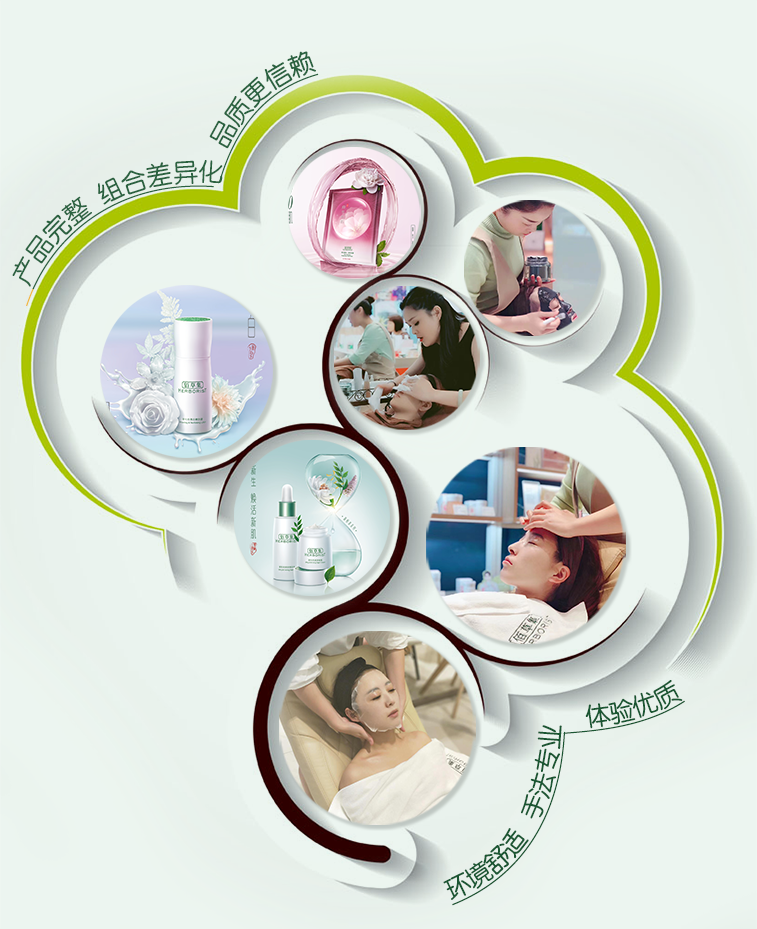
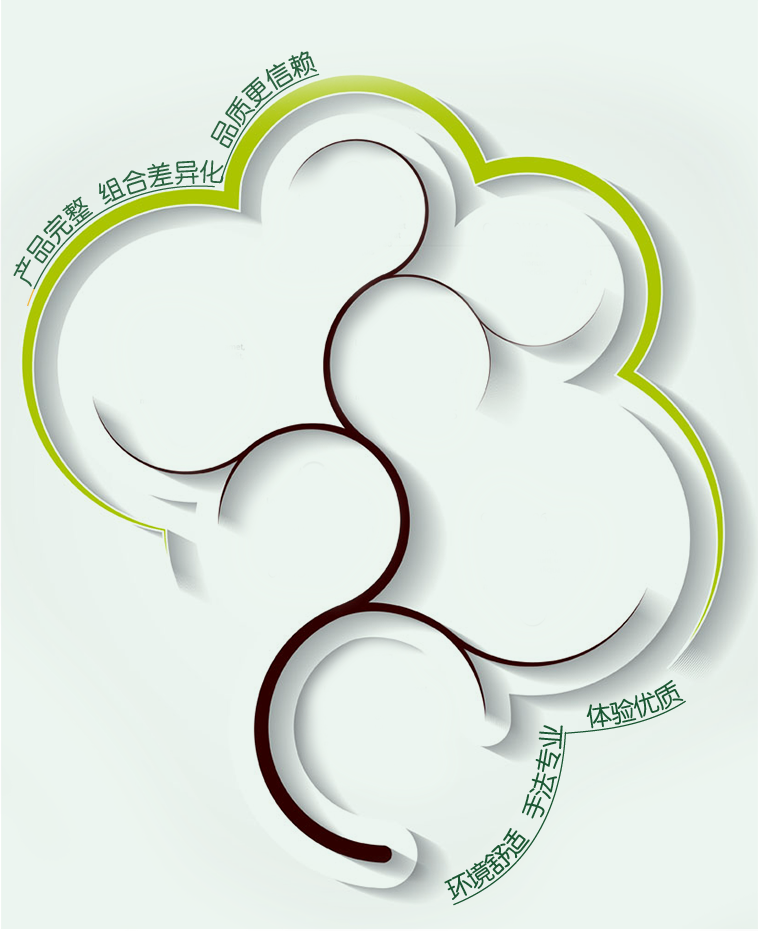
修改

diff --git a/src/App.vue b/src/App.vue
@@ -31,13 +31,24 @@
         <div class="item item-3">
            <img class="zone" src="~@/assets/images/zone.png">
            <img class="slogon" src="~@/assets/images/slogon.png">
-           <img class="group"  :class="{ 'delay-animation': isThird }" src="~@/assets/images/group.jpg">
+           <img class="group1"  :class="{ 'delay-animation': isThird }" src="~@/assets/images/group1.jpg">
+           <img class="group2"  :class="{ 'delay-animation': isThird }" src="~@/assets/images/group2.jpg">
+           <img class="group3"  :class="{ 'delay-animation': isThird }" src="~@/assets/images/group3.jpg">
+           <img class="group4"  :class="{ 'delay-animation': isThird }" src="~@/assets/images/group4.jpg">
+           <img class="group5"  :class="{ 'delay-animation': isThird }" src="~@/assets/images/group5.jpg">
         </div>
       </swiper-slide>
       <swiper-slide class="swiper-item">
         <div class="item item-4">
            <img class="title" src="~@/assets/images/title4.png">
            <img class="tree" :class="{ 'delay-animation': isFourth }" src="~@/assets/images/tree.png">
+           <img class="tree1" :class="{ 'delay-animation': isFourth }" src="~@/assets/images/tree1.png">
+           <img class="tree2" :class="{ 'delay-animation': isFourth }" src="~@/assets/images/tree2.png">
+           <img class="tree3" :class="{ 'delay-animation': isFourth }" src="~@/assets/images/tree3.png">
+           <img class="tree4" :class="{ 'delay-animation': isFourth }" src="~@/assets/images/tree4.png">
+           <img class="tree5" :class="{ 'delay-animation': isFourth }" src="~@/assets/images/tree5.png">
+           <img class="tree6" :class="{ 'delay-animation': isFourth }" src="~@/assets/images/tree6.png">
+           <img class="tree7" :class="{ 'delay-animation': isFourth }" src="~@/assets/images/tree7.png">
         </div>
       </swiper-slide>
       <swiper-slide class="swiper-item">
@@ -55,7 +66,9 @@
            <img class="jiamengbg" src="~@/assets/images/item6bg.png">
            <img class="triangle" :class="{ 'delay-animation': isSixth }" src="~@/assets/images/triangle.png">
            <img class="protocol" :class="{ 'delay-animation-1': isSixth }" src="~@/assets/images/protocol.png">
-           <img class="circle" :class="{ 'delay-animation-2': isSixth }" src="~@/assets/images/circle.png">
+           <img class="zuo" :class="{ 'delay-animation-2': isSixth }" src="~@/assets/images/zuo.png">
+           <img class="xia" :class="{ 'delay-animation-2': isSixth }" src="~@/assets/images/xia.png">
+           <img class="you" :class="{ 'delay-animation-2': isSixth }" src="~@/assets/images/you.png">
         </div>
       </swiper-slide>
       <swiper-slide class="swiper-item">
@@ -248,14 +261,14 @@ export default {
         planStart: ''
       },
       timer: null,
-      currentIndex: 0,
+      currentIndex: 5,
       swiperOption: {
         // noSwiping: false,
         direction: 'vertical',
         slidesPerView: 1,
         mousewheel: true,
         preloadImages: true,
-        initialSlide: 0,
+        initialSlide: 5,
         // shortSwipes : false,
         threshold: 10,
         // touchMoveStopPropagation: true,
@@ -557,13 +570,58 @@ export default {
         transform: translateX(-47%);
         top: 2.2667rem;
       }
-      .group {
+      .group1 {
         position: absolute;
-        width: 100%;
+        width: 5.9733rem;
         left: 0;
         top: 5.3333rem;
+        opacity: 0;
         &.delay-animation {
           animation: fadeIn ease-in 2s forwards;
+        }
+      }
+      .group2 {
+        position: absolute;
+        width: 4.0267rem;
+        right: 0;
+        top: 5.3333rem;
+        opacity: 0;
+        &.delay-animation {
+          animation: fadeIn ease-in 2s forwards;
+          animation-delay: 1s;
+        }
+      }
+      .group3 {
+        position: absolute;
+        width: 2.8533rem;
+        left: 0;
+        top: 8.9333rem;
+        opacity: 0;
+        &.delay-animation {
+          animation: fadeIn ease-in 2s forwards;
+          animation-delay: 2s;
+        }
+      }
+      .group4 {
+        position: absolute;
+        width: 2.8533rem;
+        left: 0;
+        top: 11.05rem;
+        opacity: 0;
+        &.delay-animation {
+          animation: fadeIn ease-in 2s forwards;
+          animation-delay: 3s;
+        }
+      }
+      .group5 {
+        position: absolute;
+        width: 7.1467rem;
+        right: 0;
+        top: 8.9333rem;
+        opacity: 0;
+        &.delay-animation {
+          animation: fadeIn ease-in 2s forwards;
+          animation-delay: 4s;
         }
       }
     }
@@ -580,8 +638,86 @@ export default {
         width: 100%;
         left: 0;
         top: 2.8267rem;
+        opacity: 0;
         &.delay-animation {
           animation: fadeIn ease-in 2s forwards;
+        }
+      }
+      .tree1 {
+        position: absolute;
+        width: 1.8533rem;
+        left: 3.8133rem;
+        top: 4.74rem;
+        opacity: 0;
+        &.delay-animation {
+          animation: fadeIn ease-in 2s forwards;
+          animation-delay: 1s;
+        }
+      }
+      .tree2 {
+        position: absolute;
+        width: 1.84rem;
+        left: 6.1467rem;
+        top: 5.52rem;
+        opacity: 0;
+        &.delay-animation {
+          animation: fadeIn ease-in 2s forwards;
+          animation-delay: 2s;
+        }
+      }
+      .tree3 {
+        position: absolute;
+        width: 2.0267rem;
+        left: 4.4rem;
+        top: 6.57rem;
+        opacity: 0;
+        &.delay-animation {
+          animation: fadeIn ease-in 2s forwards;
+          animation-delay: 3s;
+        }
+      }
+      .tree4 {
+        position: absolute;
+        width: 2.3867rem;
+        left: 1.3rem;
+        top: 6.60rem;
+        opacity: 0;
+        &.delay-animation {
+          animation: fadeIn ease-in 2s forwards;
+          animation-delay: 4s;
+        }
+      }
+      .tree5 {
+        position: absolute;
+        width: 2.16rem;
+        left: 3.1rem;
+        top: 8.60rem;
+        opacity: 0;
+        &.delay-animation {
+          animation: fadeIn ease-in 2s forwards;
+          animation-delay: 5s;
+        }
+      }
+      .tree6 {
+        position: absolute;
+        width: 2.7467rem;
+        left: 5.73rem;
+        top: 8.75rem;
+        opacity: 0;
+        &.delay-animation {
+          animation: fadeIn ease-in 2s forwards;
+          animation-delay: 6s;
+        }
+      }
+      .tree7 {
+        position: absolute;
+        width: 2.72rem;
+        left: 3.65rem;
+        top: 11.10rem;
+        opacity: 0;
+        &.delay-animation {
+          animation: fadeIn ease-in 2s forwards;
+          animation-delay: 7s;
         }
       }
     }
@@ -598,18 +734,23 @@ export default {
       }
       .shouru {
         margin-top: 4.8rem;
+        animation-duration: 2s;
       }
       .chengben {
         animation-delay: 0.3s;
+        animation-duration: 2s;
       }
       .zujin {
         animation-delay: 0.5s;
+        animation-duration: 2s;
       }
       .zujin2 {
         animation-delay: 0.7s;
+        animation-duration: 2s;
       }
       .yuejingli {
         animation-delay: 0.9s;
+        animation-duration: 2s;
       }
     }
     &.item-6 {
@@ -643,16 +784,37 @@ export default {
           animation-delay: 1s;
         }
       }
-       .circle {
+       .zuo {
         position: absolute;
-        width: 6.76rem;
-        left: 50%;
-        margin-left: -3.3867rem;
-        top: 7.6rem;
+        width: 2.2933rem;
+        left: 1.5933rem;
+        top: 7.6133rem;
         opacity: 0;
         &.delay-animation-2 {
           animation: fadeIn  3s forwards;
           animation-delay: 2s;
+        }
+      }
+      .xia {
+        position: absolute;
+        width: 3.6667rem;
+        left: 3.2933rem;
+        top: 12.7133rem;
+        opacity: 0;
+        &.delay-animation-2 {
+          animation: fadeIn  3s forwards;
+          animation-delay: 3s;
+        }
+      }
+      .you {
+        position: absolute;
+        width: 2.28rem;
+        left: 6.0933rem;
+        top: 7.6133rem;
+        opacity: 0;
+        &.delay-animation-2 {
+          animation: fadeIn  3s forwards;
+          animation-delay: 4s;
         }
       }
     }
